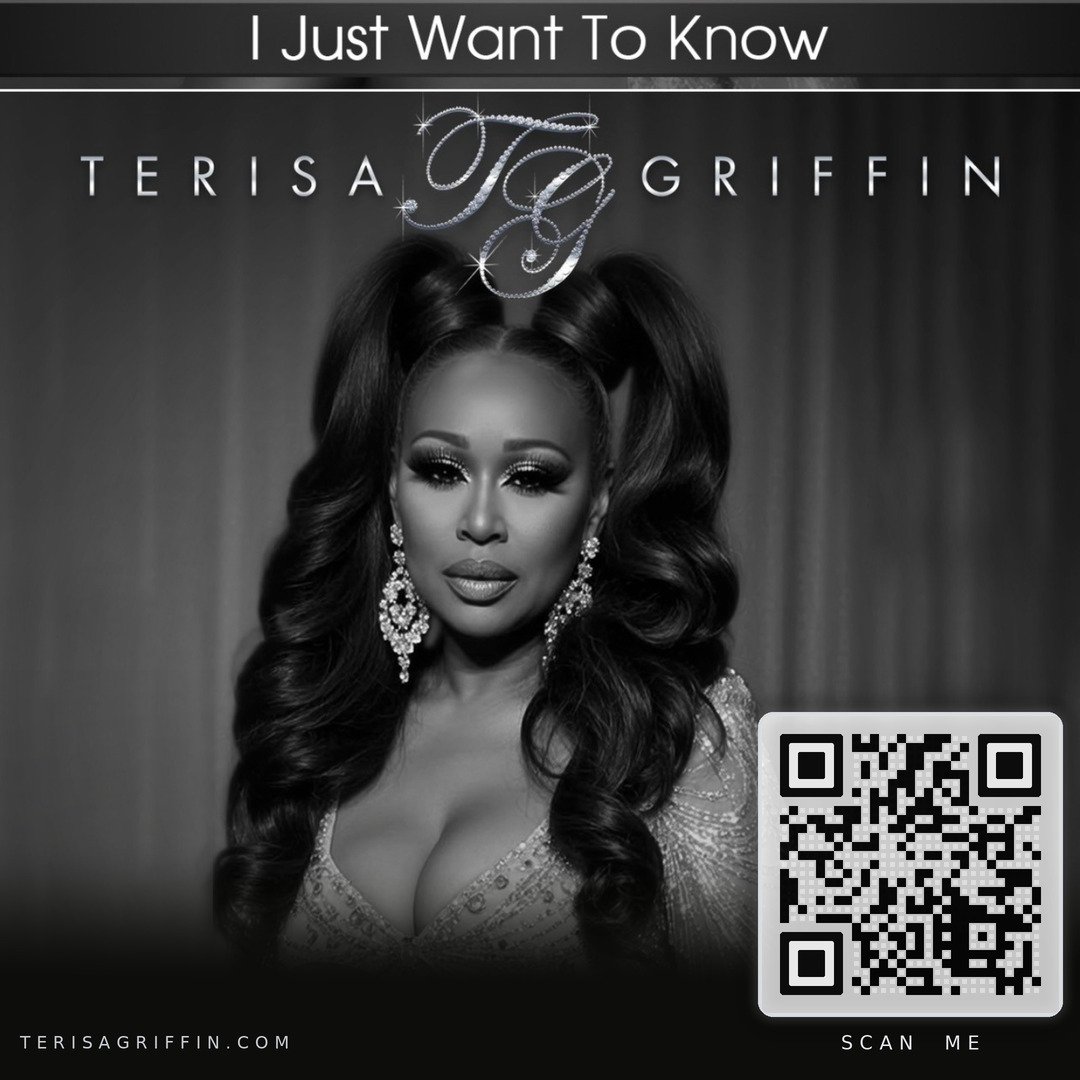
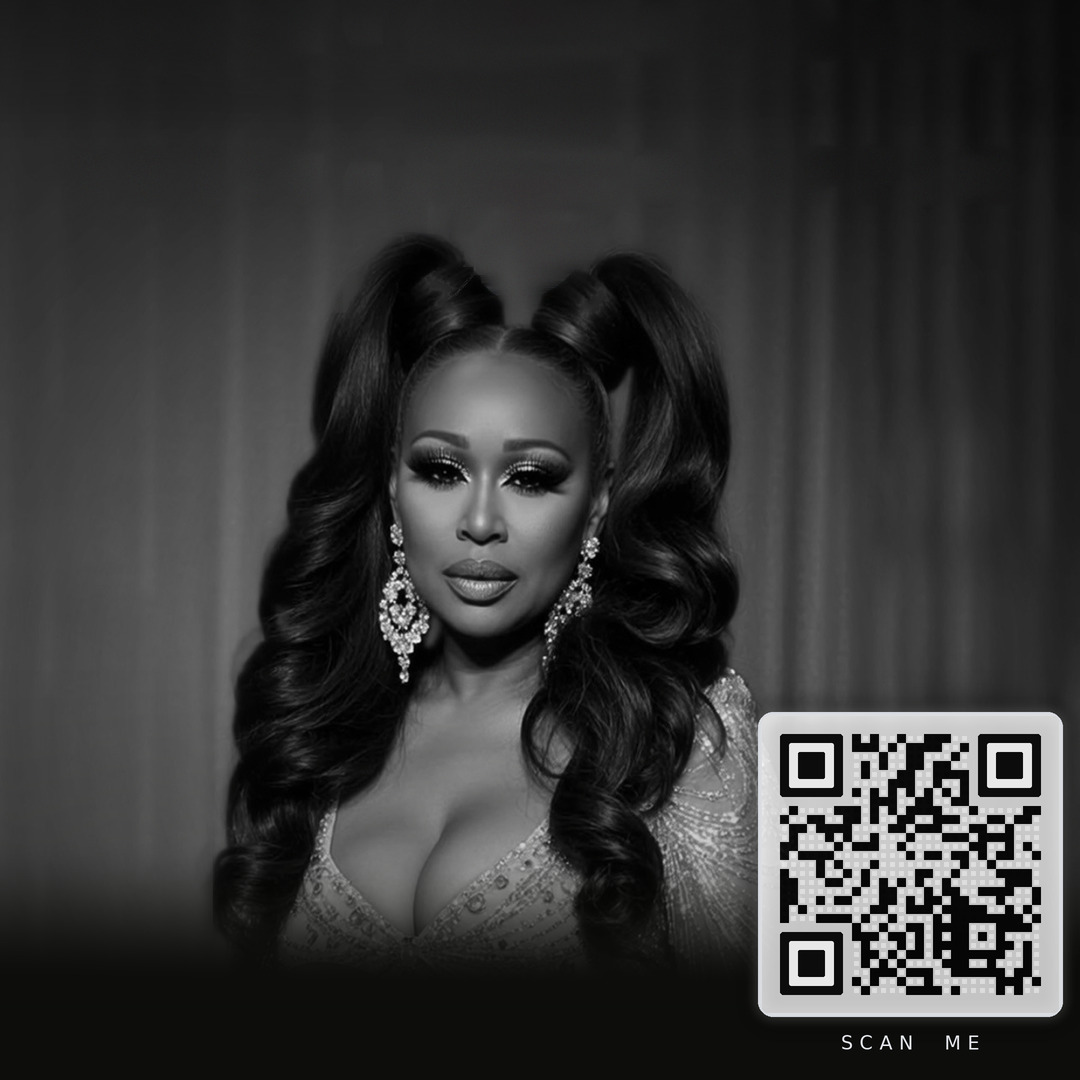
Remove name and title lettering from the QR artwork
New clean_artwork.py strips the "I Just Want To Know" title bar and the
TERISA [TG] GRIFFIN lettering from the cover, rebuilding the curtain in
their place. All layouts are regenerated from the clean art, and the
added NEW SINGLE / title / name / web-address text is removed; only
SCAN ME remains next to each code.

Claude-Session: https://claude.ai/code/session_01XHh5wLyDv9XFqxDYAn5bDW

diff --git a/marketing/terisa-griffin-qr/clean_artwork.py b/marketing/terisa-griffin-qr/clean_artwork.py
@@ -1,0 +1,118 @@
+"""Remove the "I Just Want To Know" title bar and the TERISA [TG] GRIFFIN lettering
+from the cropped artwork, keeping its 1440x1326 size so the layout scripts still line up.
+
+Usage: python3 clean_artwork.py <cropped-artwork.png> <clean-out.png>
+
+The curtain folds run vertically, so masked lettering is refilled column by
+column from the clean curtain just above/below it; the old title bar is then
+replaced by the curtain reflected upward, with a gentle fade to stage-black.
+"""
+import sys
+import cv2
+import numpy as np
+from PIL import Image
+
+SRC, OUT = sys.argv[1], sys.argv[2]
+
+RULE_END = 132        # first row below the title bar's white rule
+LETTER_TOP, LETTER_BOT = RULE_END, 425
+
+a = np.asarray(Image.open(SRC).convert("RGB")).astype(np.float32)
+H, W = a.shape[:2]
+g = a.mean(axis=2)
+
+# --- mask the silver lettering / monogram / sparkles -------------------------
+band = g[LETTER_TOP:LETTER_BOT]
+bg = cv2.medianBlur(band.astype(np.uint8), 51).astype(np.float32)
+mask = (band - bg) > 9
+mask = cv2.dilate(mask.astype(np.uint8), np.ones((3, 3), np.uint8), iterations=1)
+# close the gaps inside the rhinestone chains, then grow over glow halos
+mask = cv2.morphologyEx(mask, cv2.MORPH_CLOSE, np.ones((15, 15), np.uint8))
+mask = cv2.dilate(mask, cv2.getStructuringElement(cv2.MORPH_ELLIPSE, (27, 27)))
+mask = mask.astype(bool)
+full = np.zeros((H, W), bool)
+full[LETTER_TOP:LETTER_BOT] = mask
+# protect the hair: large dark blobs (the buns / head) are never repainted
+hair = (g < 48).astype(np.uint8)
+hair[:LETTER_TOP + 150] = 0          # hair starts ~y330; above that dark = gaps in letters
+hair = cv2.morphologyEx(hair, cv2.MORPH_OPEN, np.ones((9, 9), np.uint8))
+nh, hl, hs, _ = cv2.connectedComponentsWithStats(hair)
+hair_mask = np.zeros_like(full)
+for i in range(1, nh):
+    if hs[i, cv2.CC_STAT_AREA] > 4000:
+        hair_mask |= hl == i
+full &= ~hair_mask
+# where lettering crossed a bun, the bun outline is closed and repainted as hair
+hair_closed = cv2.morphologyEx(hair_mask.astype(np.uint8), cv2.MORPH_CLOSE,
+                               cv2.getStructuringElement(cv2.MORPH_ELLIPSE, (41, 41))).astype(bool)
+hair_fill = full & hair_closed
+full &= ~hair_fill
+# drop specks: only keep components of real size
+n, lab, stats, _ = cv2.connectedComponentsWithStats(full.astype(np.uint8))
+for i in range(1, n):
+    if stats[i, cv2.CC_STAT_AREA] < 60:
+        full[lab == i] = False
+
+# --- refill column by column (vertical interpolation) ------------------------
+# Anchors must be curtain, not hair: runs whose anchors are hair/rule get
+# filled afterwards by horizontal interpolation from neighbouring columns.
+out = a.copy()
+pending = np.zeros((H, W), bool)
+glum = lambda v: float(np.mean(v))
+for x in range(W):
+    col = full[:, x]
+    if not col.any():
+        continue
+    y = LETTER_TOP
+    while y < LETTER_BOT:
+        if not col[y]:
+            y += 1
+            continue
+        y1 = y
+        while y < H and col[y]:
+            y += 1
+        y2 = y
+        above = out[max(y1 - 4, RULE_END + 2):y1, x].mean(axis=0) if y1 - 1 >= RULE_END + 3 else None
+        below = out[y2:y2 + 4, x].mean(axis=0) if y2 + 4 < H and not hair_mask[y2, x] else None
+        ok = lambda v: v is not None and glum(v) > 50
+        if ok(above) and ok(below):
+            t = np.linspace(0, 1, y2 - y1 + 2)[1:-1, None]
+            out[y1:y2, x] = above * (1 - t) + below * t
+        elif ok(below) and not ok(above) and y2 - y1 < 60:
+            out[y1:y2, x] = below
+        elif ok(above) and not ok(below) and y2 - y1 < 60:
+            out[y1:y2, x] = above
+        else:
+            pending[y1:y2, x] = True
+# horizontal interpolation for the remaining (monogram) pixels
+for yy in range(H):
+    row = pending[yy]
+    if not row.any():
+        continue
+    xs = np.where(~row)[0]
+    for ch in range(3):
+        out[yy, row, ch] = np.interp(np.where(row)[0], xs, out[yy, xs, ch])
+# repaint the bun notches from the surrounding hair
+if hair_fill.any():
+    out = cv2.inpaint(np.clip(out, 0, 255).astype(np.uint8), hair_fill.astype(np.uint8) * 255,
+                      9, cv2.INPAINT_TELEA).astype(np.float32)
+# soften the vertical streaks slightly inside the filled areas only
+blur = cv2.GaussianBlur(out, (0, 0), sigmaX=4, sigmaY=6)
+m3 = cv2.GaussianBlur(full.astype(np.float32), (0, 0), 6)[..., None]
+out = out * (1 - m3) + blur * m3
+# film grain so the fill matches the photo texture
+rng = np.random.default_rng(7)
+out += rng.normal(0, 2.0, out.shape).astype(np.float32) * m3
+
+# --- replace the title bar with reflected curtain ----------------------------
+OFF = 14                                     # skip the rule's glow rows
+src = out[RULE_END + OFF:RULE_END + OFF + RULE_END + OFF][::-1]   # mirror rows upward
+out[:RULE_END + OFF] = src
+# blend the seam and darken toward the top like a stage curtain in shadow
+out[RULE_END + OFF - 7:RULE_END + OFF + 7] = cv2.GaussianBlur(out[RULE_END + OFF - 21:RULE_END + OFF + 21], (0, 0), sigmaX=0.1, sigmaY=3)[14:28]
+fade = np.clip(np.linspace(0.55, 1.0, RULE_END + 60), 0, 1)[:, None, None]
+out[:RULE_END + 60] *= fade
+
+Image.fromarray(np.clip(out, 0, 255).astype(np.uint8)).save(OUT)
+cv2.imwrite(OUT.rsplit(".", 1)[0] + "_mask.png", full.astype(np.uint8) * 255)
+print("saved", OUT)

diff --git a/marketing/terisa-griffin-qr/make_rollup.py b/marketing/terisa-griffin-qr/make_rollup.py
@@ -1,4 +1,4 @@
-"""Vertical roll-up banner (33 x 80 in) for Terisa Griffin - "I Just Want To Know".
+"""Vertical roll-up banner (33 x 80 in) with a scannable QR (no name/title lettering).
 
 Usage: python3 make_rollup.py <cropped-artwork.png> <output.png>
 
@@ -216,34 +216,17 @@ def main():
     ss = glyph_box(f_scan, scan, sp_s)
     uu = glyph_box(f_url, url, sp_u)
 
-    # vertical rhythm
-    y_kick = art_top + ah - 100              # just past the art's faded tail
-    y_title = y_kick + kk[1] + 48
-    title_end = y_title + tt[1]
-    # footer signature sits well above the hidden base zone
-    f_foot = ImageFont.truetype(FONT, 50)
-    foot, sp_f = "TERISA  GRIFFIN", 30
-    ff = glyph_box(f_foot, foot, sp_f)
-    y_foot = SAFE_BOTTOM - 260
-    # QR group (SCAN ME / plaque / URL / ornament) centred between title and footer,
-    # biased slightly upward toward eye level
-    g_scan, g_plq, g_url = 96, 100, 70
-    group_h = ss[1] + g_scan + plaque + g_url + uu[1]
-    free = y_foot - title_end - group_h
-    y_scan = int(title_end + free * 0.47)
+    # vertical rhythm: no name/title lettering, just SCAN ME + plaque + ornament
+    art_end = art_top + ah - 140             # just past the art's faded tail
+    y_floor = SAFE_BOTTOM - 200
+    # QR group centred between the art and the hidden base, biased toward eye level
+    g_scan, g_plq = 96, 90
+    group_h = ss[1] + g_scan + plaque + g_plq + 20
+    free = y_floor - art_end - group_h
+    y_scan = int(art_end + free * 0.45)
     y_plaque = y_scan + ss[1] + g_scan
-    y_url = y_plaque + plaque + g_plq
-    y_orn = y_url + uu[1] + g_url
+    y_orn = y_plaque + plaque + g_plq
     cx = W / 2
-
-    metallic_text(canvas, cx, y_kick - kk[0], kick, f_kicker, sp_k, top=(200, 203, 210), bottom=(140, 144, 152))
-    tw_k = text_width(f_kicker, kick, sp_k)
-    ym = y_kick + kk[1] / 2
-    hairline(canvas, cx - tw_k / 2 - 90, cx - tw_k / 2 - 600, ym, fade_to_left=True)
-    hairline(canvas, cx + tw_k / 2 + 90, cx + tw_k / 2 + 600, ym, fade_to_left=False)
-    diamond(canvas, cx - tw_k / 2 - 56, ym, 9)
-    diamond(canvas, cx + tw_k / 2 + 56, ym, 9)
-    metallic_text(canvas, cx, y_title - tt[0], title, f_title, sp_t, glow=0.18)
 
     metallic_text(canvas, cx, y_scan - ss[0], scan, f_scan, sp_s, glow=0.22)
 
@@ -261,7 +244,6 @@ def main():
     o = frame_gap + frame_w
     silver_frame(canvas, [px - o, py - o, px + ps + o - 1, py + ps + o - 1], radius=44, width=frame_w)
 
-    metallic_text(canvas, cx, y_url - uu[0], url, f_url, sp_u, top=(236, 238, 242), bottom=(170, 174, 182))
     # closing ornament: diamond with fading hairlines
     tw_u = text_width(f_url, url, sp_u)
     yo = y_orn + 10
@@ -269,18 +251,11 @@ def main():
     hairline(canvas, cx + 40, cx + 40 + tw_u * 0.32, yo, fade_to_left=False, width=2)
     diamond(canvas, cx, yo, 10)
 
-    # footer signature
-    metallic_text(canvas, cx, y_foot - ff[0], foot, f_foot, sp_f, top=(190, 193, 200), bottom=(128, 132, 140))
-    tw_f = text_width(f_foot, foot, sp_f)
-    yf = y_foot + ff[1] / 2
-    hairline(canvas, cx - tw_f / 2 - 50, cx - tw_f / 2 - 420, yf, fade_to_left=True, width=2)
-    hairline(canvas, cx + tw_f / 2 + 50, cx + tw_f / 2 + 420, yf, fade_to_left=False, width=2)
-
     canvas.save(OUT, dpi=(75, 75))
     qr_px = n * MOD
     print(f"QR v{version} {n}x{n} EC=Q, module {MOD}px, code {qr_px}px ({qr_px / W:.1%} of width), "
-          f"panel {ps}px; plaque y={y_plaque}..{y_plaque + plaque}; url y={y_url}; ornament y={yo}; "
-          f"footer y={y_foot}..{y_foot + ff[1]}; safe line y={SAFE_BOTTOM}; saved {OUT} {canvas.size}")
+          f"panel {ps}px; plaque y={y_plaque}..{y_plaque + plaque}; ornament y={yo}; "
+          f"safe line y={SAFE_BOTTOM}; saved {OUT} {canvas.size}")
 
 
 if __name__ == "__main__":

diff --git a/marketing/terisa-griffin-qr/make_banner_6x3.py b/marketing/terisa-griffin-qr/make_banner_6x3.py
@@ -1,4 +1,4 @@
-"""6 ft x 3 ft horizontal banner (5400x2700 px, 75 dpi) for "I Just Want To Know".
+"""6 ft x 3 ft horizontal banner (5400x2700 px, 75 dpi) with a scannable QR (no name/title lettering).
 
 Usage: python3 make_banner_6x3.py <cropped-artwork.png> <output.png>
 
@@ -56,12 +56,7 @@ def prepare_art(path):
     """Drop the 7px remnant strip above the title bar and pad the bar evenly
     above/below the title so the lettering sits inside the safe margin."""
     a = np.asarray(Image.open(path).convert("RGB"))
-    a = a[7:]                       # remnant of an image above the bar
-    bar_top = a[9:10]               # flat dark-bar row above the title text (orig row 16)
-    bar_bot = a[90:91]              # flat dark-bar row below the title text (orig row 97)
-    extra = 30
-    a = np.concatenate([a[:9], np.repeat(bar_top, extra, 0), a[9:90],
-                        np.repeat(bar_bot, extra, 0), a[90:]], 0)
+    a = a[7:]                       # artwork is lettering-free (clean_artwork.py)
     img = Image.fromarray(a)
     s = H / img.height
     return img.resize((round(img.width * s), H), Image.LANCZOS), s
@@ -221,7 +216,7 @@ def rule(pil, cx, y, half, gap=0, alpha=170):
 
 def main():
     art, s = prepare_art(SRC)
-    bar_end = int(round((131 - 7 + 60) * s))   # bottom of the silver rule under the title bar
+    bar_end = 0                                 # no title bar in the clean artwork
     canvas = compose_background(art, bar_end)
     aw = art.width
 
@@ -235,8 +230,8 @@ def main():
     # right column centre: midway between the art edge and the right banner edge
     cx = int(round((aw + W) / 2))
     # vertical stack (header / plaque / SCAN ME / rule / URL), centred on the banner
-    head_top = 318
-    py0 = head_top + 222   # plaque top, ~85px below the header
+    # no header text: centre the plaque + SCAN ME group vertically
+    py0 = (H - (plaque + 58 + 150)) // 2
     x0 = cx - qr_px // 2
     y0 = py0 + QUIET * MOD + PLAQUE_PAD
 
@@ -253,20 +248,12 @@ def main():
     fb = [box[0] - 4, box[1] - 4, box[2] + 4, box[3] + 4]
     silver_frame(pil, fb, radius=int(MOD * 0.9) + 4, width=7)
 
-    # header: NEW SINGLE flanked by hairlines, then the title
-    hb = silver_text(pil, cx, head_top, "NEW SINGLE", 66, 38, glow=0.2)
-    hw = 230
-    rule(pil, hb[0] - 60 - hw / 2, (hb[1] + hb[3]) / 2, hw // 2, alpha=150)
-    rule(pil, hb[2] + 60 + hw / 2, (hb[1] + hb[3]) / 2, hw // 2, alpha=150)
-    tb = silver_text(pil, cx, hb[3] + 22, "I  JUST  WANT  TO  KNOW", 60, 19, glow=0.18,
-                     hi=(214, 217, 223), lo=(150, 153, 160))
-    # SCAN ME + URL under the plaque
+    # SCAN ME under the plaque (no name/title lettering)
     sb = silver_text(pil, cx, fb[3] + 58, "SCAN  ME", 124, 46, glow=0.3)
     rule(pil, cx, sb[3] + 52, 520)
-    ub = silver_text(pil, cx, sb[3] + 86, "TERISAGRIFFIN.COM", 76, 30, glow=0.2)
-    print("header", hb, tb, "plaque", fb, "scan", sb, "url", ub)
+    print("plaque", fb, "scan", sb)
 
-    for name, b in [("header", hb), ("plaque", fb), ("url", ub)]:
+    for name, b in [("plaque", fb), ("scan", sb)]:
         assert b[0] >= SAFE_X and b[2] <= W - SAFE_X and b[1] >= SAFE_Y and b[3] <= H - SAFE_Y, name
 
     pil.save(OUT, dpi=(75, 75), optimize=True)

diff --git a/marketing/terisa-griffin-qr/make_social_square.py b/marketing/terisa-griffin-qr/make_social_square.py
@@ -186,10 +186,6 @@ def main():
     f_scan = ImageFont.truetype(FONT, 38)
     spaced(d, (cx, box[3] + 30), "SCAN  ME", f_scan, (228, 230, 236), 13)
 
-    # web address, bottom-left, sharing the SCAN ME baseline
-    f_url = ImageFont.truetype(FONT, 34)
-    url_y = box[3] + 32
-    spaced(d, (MARGIN + 6, url_y), "TERISAGRIFFIN.COM", f_url, (200, 203, 210), 12, align="left")
 
     os.makedirs(outdir, exist_ok=True)
     hi = os.path.join(outdir, "social-square-2160.png")
